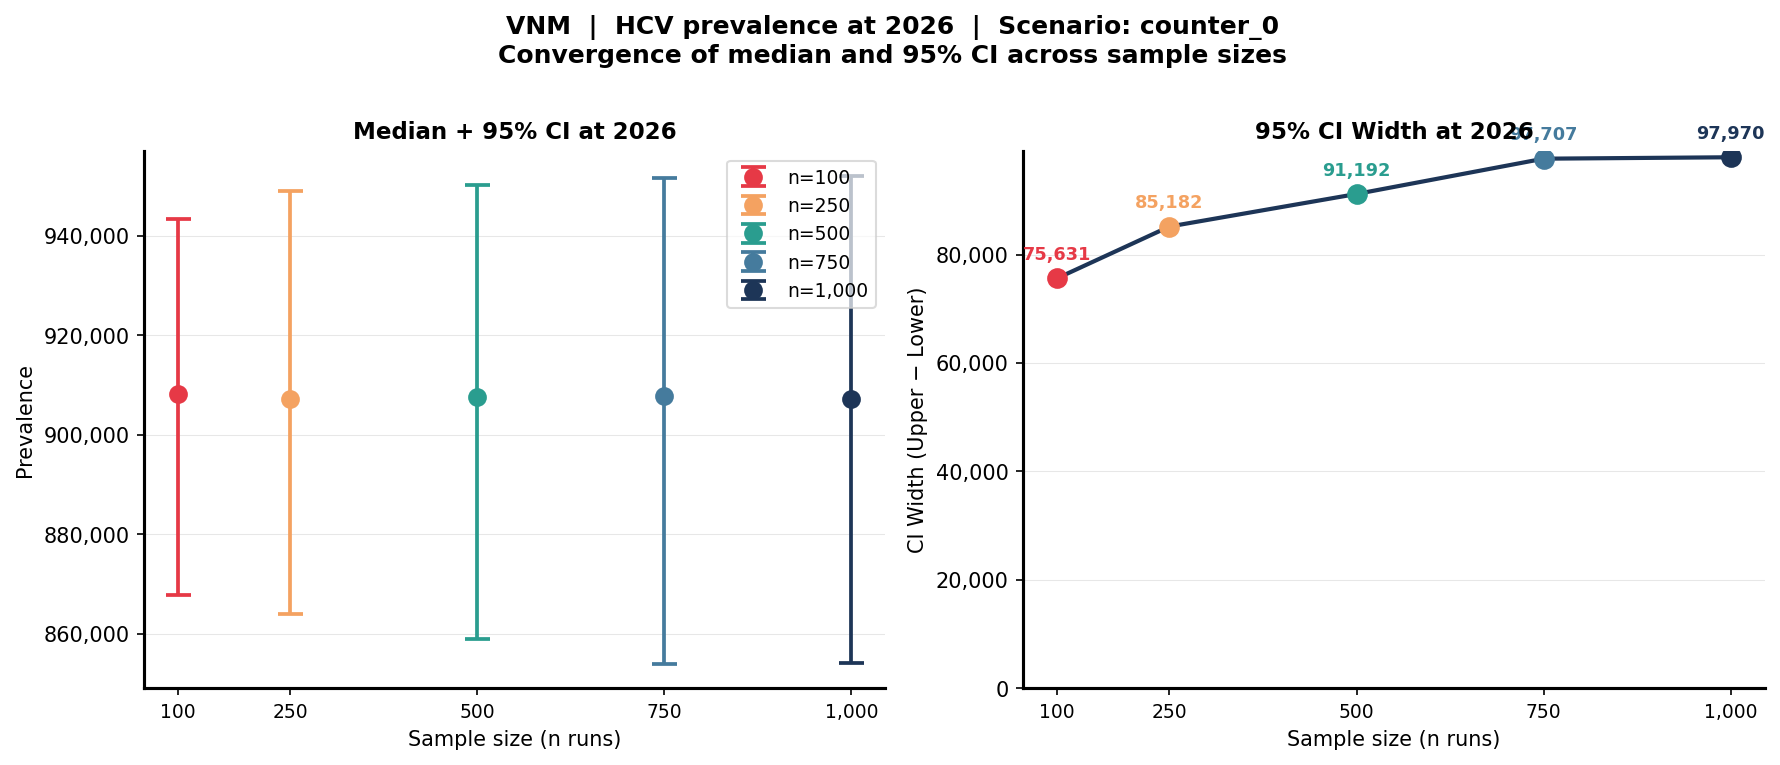
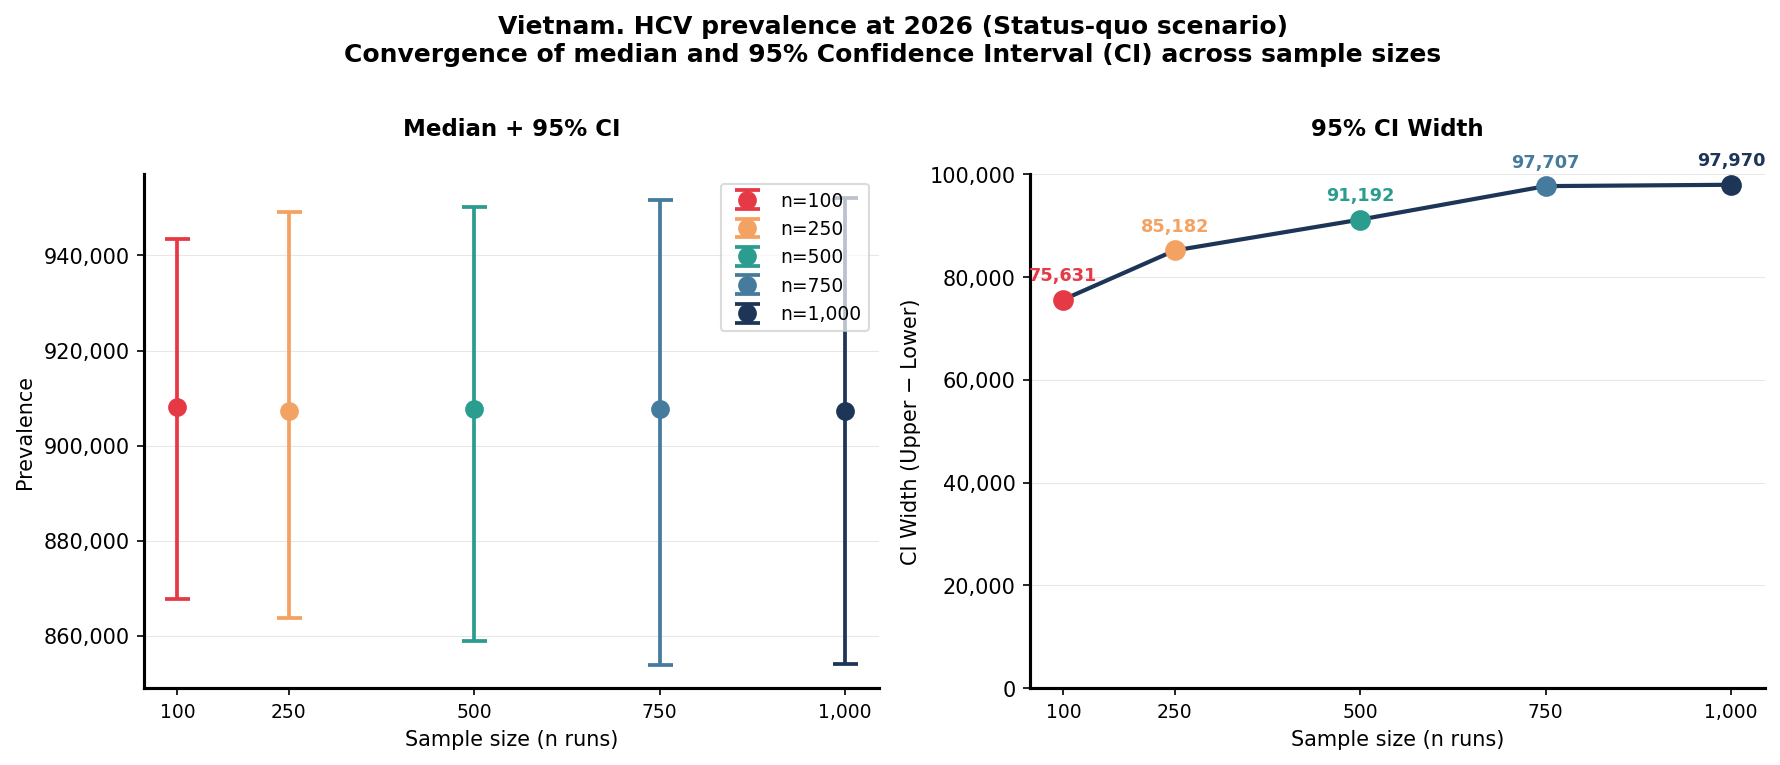
fix load progbook

diff --git a/hcv/convergence_checks.py b/hcv/convergence_checks.py
@@ -170,8 +170,8 @@ def plot_focal_year(all_focal: dict, scenario_key: str, country: str) -> plt.Fig
 
     fig, axes = plt.subplots(1, 2, figsize=(12, 5))
     fig.suptitle(
-        f"{country}  |  {outcome_key} at {reference_year}  |  Scenario: {scenario_key}\n"
-        f"Convergence of median and 95% CI across sample sizes",
+        f"Vietnam. {outcome_key} at {reference_year} (Status-quo scenario)\n"
+        f"Convergence of median and 95% Confidence Interval (CI) across sample sizes",
         fontsize=12, fontweight="bold", y=1.01
     )
 
@@ -186,7 +186,7 @@ def plot_focal_year(all_focal: dict, scenario_key: str, country: str) -> plt.Fig
             markersize=8, linewidth=1.8,
             label=f"n={n:,}"
         )
-    ax.set_title(f"Median + 95% CI at {reference_year}", fontsize=11, fontweight="bold")
+    ax.set_title("Median + 95% CI\n", fontsize=11, fontweight="bold")
     ax.set_xlabel("Sample size (n runs)", fontsize=10)
     ax.set_ylabel("Prevalence", fontsize=10)
     ax.yaxis.set_major_formatter(plt.FuncFormatter(lambda x, _: f"{x:,.0f}"))
@@ -205,7 +205,7 @@ def plot_focal_year(all_focal: dict, scenario_key: str, country: str) -> plt.Fig
         ax2.annotate(f"{w:,.0f}", (n, w),
                      textcoords="offset points", xytext=(0, 9),
                      ha="center", fontsize=8.5, color=colors[i], fontweight="bold")
-    ax2.set_title(f"95% CI Width at {reference_year}", fontsize=11, fontweight="bold")
+    ax2.set_title("95% CI Width\n", fontsize=11, fontweight="bold")
     ax2.set_xlabel("Sample size (n runs)", fontsize=10)
     ax2.set_ylabel("CI Width (Upper − Lower)", fontsize=10)
     ax2.yaxis.set_major_formatter(plt.FuncFormatter(lambda x, _: f"{x:,.0f}"))
@@ -213,7 +213,7 @@ def plot_focal_year(all_focal: dict, scenario_key: str, country: str) -> plt.Fig
     ax2.set_xticklabels([f"{n:,}" for n in ns], fontsize=9)
     ax2.grid(True, alpha=0.3, linewidth=0.5, axis="y")
     ax2.spines[["top","right"]].set_visible(False)
-    ax2.set_ylim(bottom=0)
+    ax2.set_ylim([0,100000])
 
     plt.tight_layout()
     return fig

diff --git a/hcv/utils.py b/hcv/utils.py
@@ -784,7 +784,7 @@ def run_scenario_sampling(country, cal_folder, rand_seed, n_samples, savedir, sc
     P.run_sampled_sims(
         parset=parset, n_samples=n_samples, rand_seed=rand_seed, custom_fct=gen_pb, start_sample=start_sample
     )
-    for i in np.arange(n_samples):
+    for i in np.arange(start_sample, start_sample + n_samples):
         pset = P.load_progbook(savedir_pb / f"progbook_{country}_{i}.xlsx")
         progset.append(pset)
     for p_i, scen in zip(progset_instructions, scenarios):
